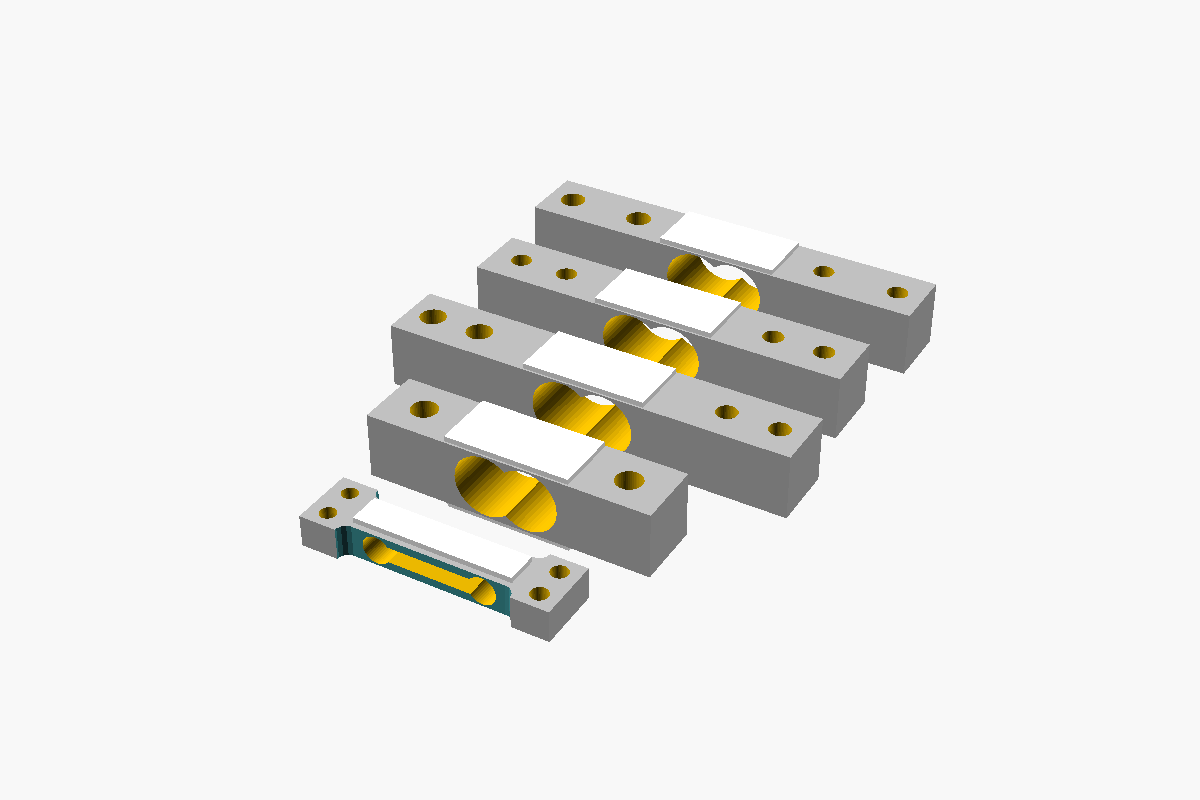
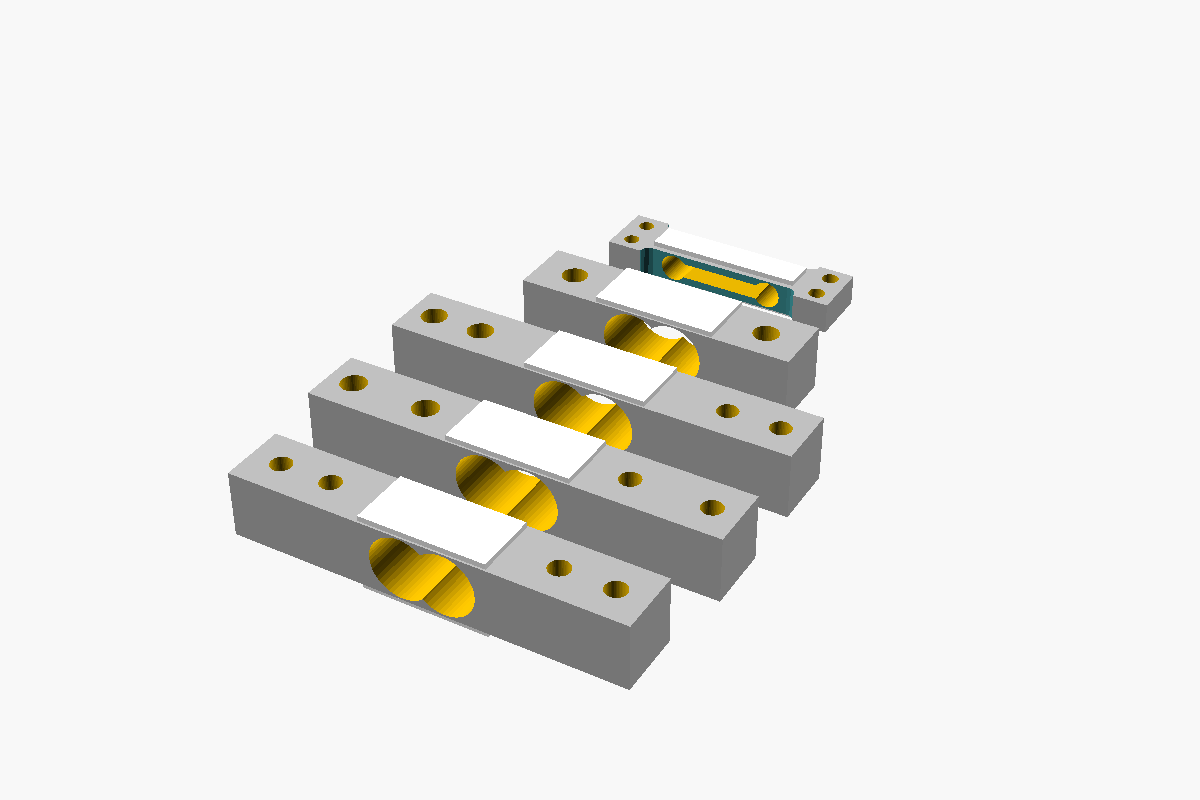
docs(examples): add a single-bar scale mount (#3)
examples/scale_mount.scad designs around a cell, which no example did:
a base and a platform, each with a spacer under one end of the bar so
the gauged middle is free to bend. The cell is a dropdown of the row
names; the screw holes come from lc_screw_holes(), and each spacer
stops 2 mm inside its end's holes. It asserts the spacers stay off the
gauges and leave them at least 1 mm. Print and assembled views.

Checked for all five cells by intersecting, in the assembled view:

- cell against base and platform: no overlap
- each end's screws, 0.05 mm under the hole size, against the cell and
  against their own part: no overlap
- the same screws with hole_clearance at -0.3: overlap, 34 to 61 mm^3,
  so the check can fail

The two galleries now draw every row of load_cells and
amplifier_boards, so a new row appears without editing them, and their
titles say what they show. The load cells come out in the list's order,
so images/load_cells.png is re-rendered; images/amplifier_boards.png
re-renders byte-identical. The README's "Designing around a part"
points at the new example.

just test: all checks passed.

diff --git a/README.md b/README.md
@@ -64,6 +64,10 @@ difference() {
 }
 ```
 
+[`examples/scale_mount.scad`](examples/scale_mount.scad) builds a whole
+single-bar scale this way: a base and a platform, each bolted to one end of
+the cell, for any cell in the library.
+
 Load cells: `lc_name`, `lc_cell_dims`, `lc_sensor_dims`, `lc_center_cutout`,
 `lc_screw_holes`, `lc_side_cuts`. Boards: `amp_name`, `amp_pcb`,
 `amp_colour`, `amp_chip`, `amp_headers`, `amp_mount_holes`, and
